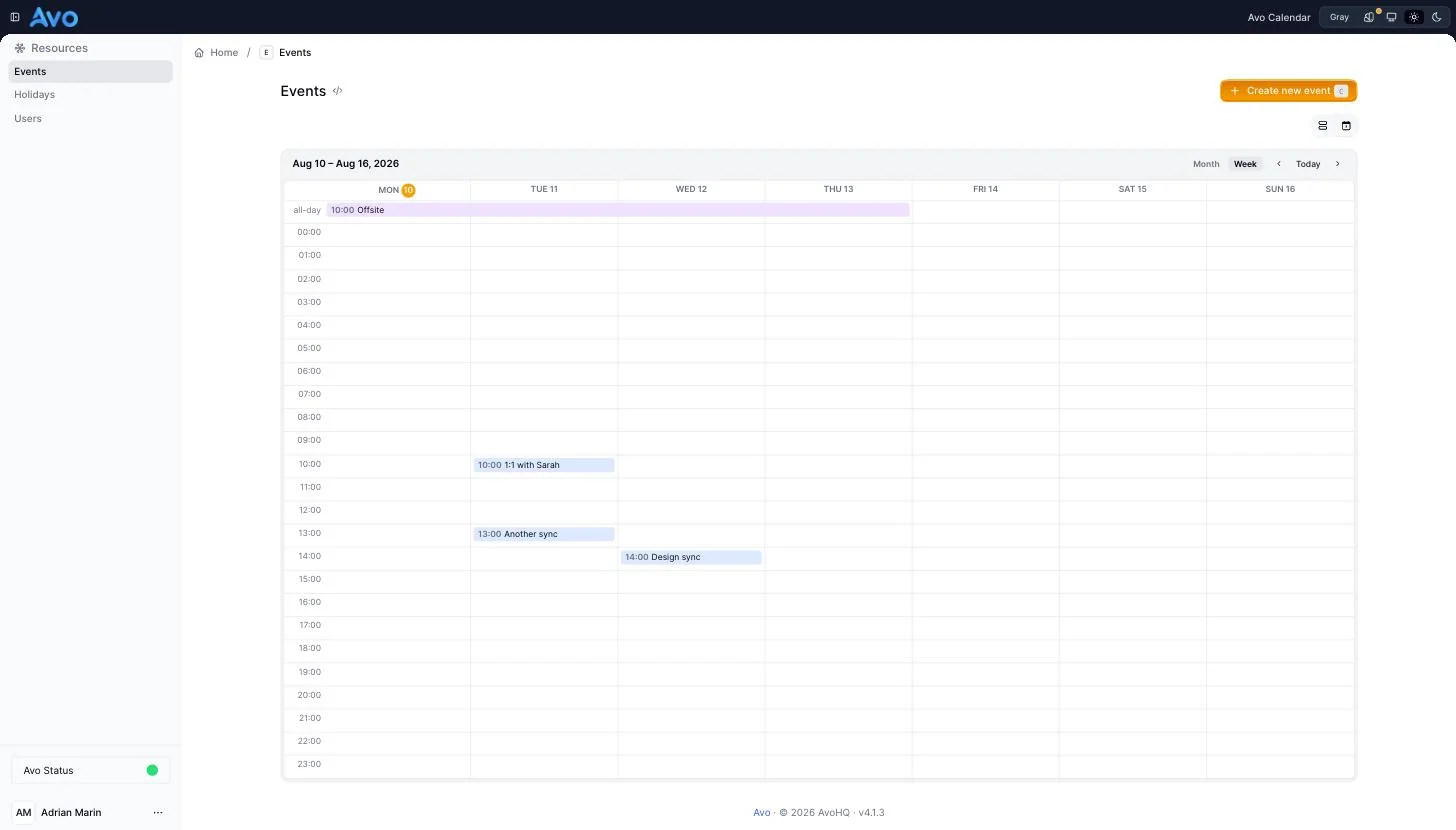
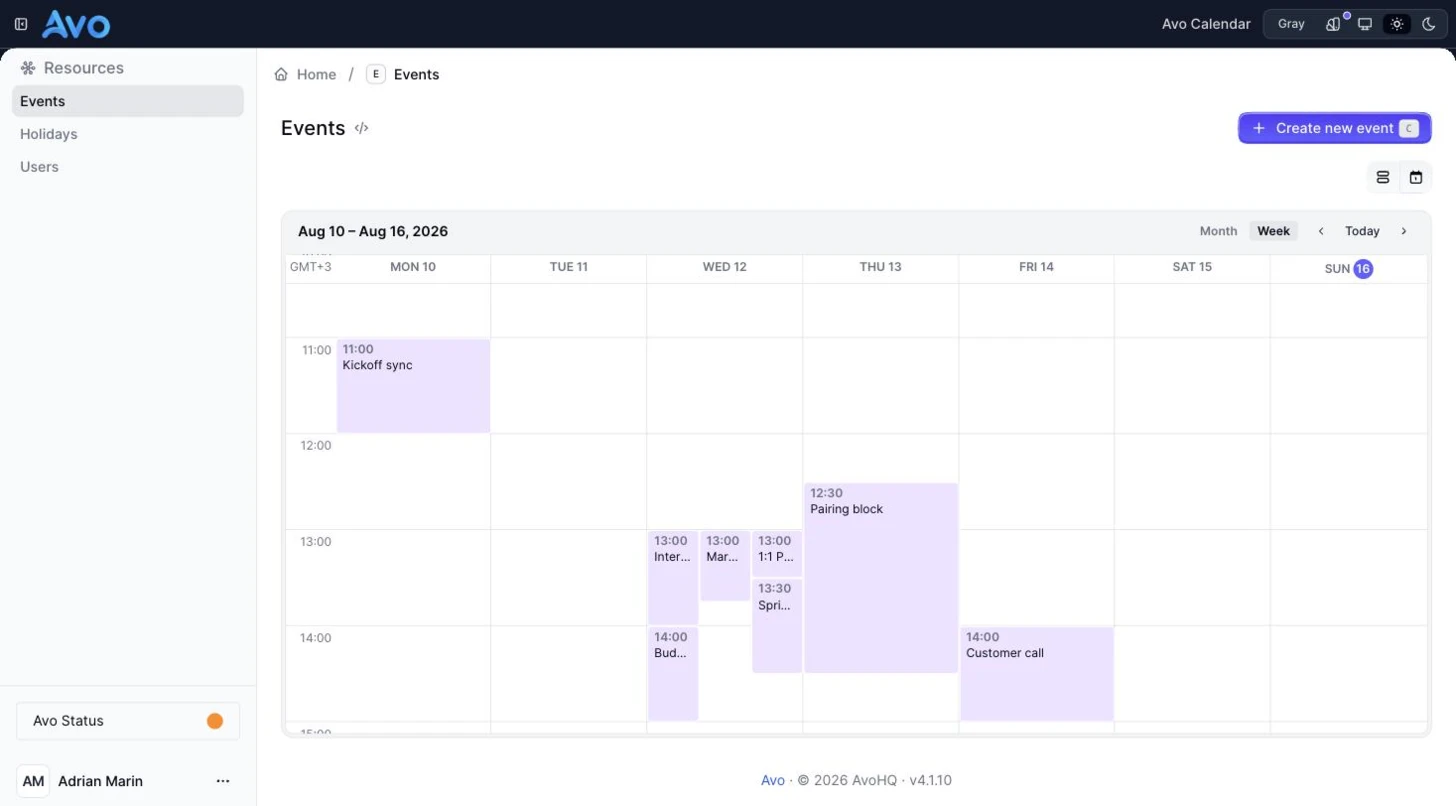
Document the calendar week view's scrollable time grid
Hour-based events now stretch to their duration and split overlaps side
by side on a grid that scrolls under a pinned day-header row, opening
at 07:00; chips get a tooltip when on_click skips the preview popover.
Refreshes the week screenshots (light + dark) and adds the unreleased
upgrade note alongside the +N more one.

diff --git a/docs/4.0/calendar-view.md b/docs/4.0/calendar-view.md
@@ -7,7 +7,7 @@ outline: [2, 3]
 
 # Calendar view
 
-Display a resource's records on a month or week calendar, right on the <Index /> view. Hour-based events show their start time, all-day events render as filled bars (and land in the week view's all-day lane), and multi-day events span every day they cover. Clicking an event opens a preview popover with the fields marked `show_on: :preview`.
+Display a resource's records on a month or week calendar, right on the <Index /> view. Hour-based events show their start time — and stretch to their duration in the week view — all-day events render as filled bars (and land in the week view's all-day lane), and multi-day events span every day they cover. Clicking an event opens a preview popover with the fields marked `show_on: :preview`.
 
 <Image src="/assets/img/4_0/calendar-view/month.webp" dark-src="/assets/img/4_0/calendar-view/month-dark.webp" width="1175" height="771" alt="The month calendar — timed event chips, a month-long all-day bar, a multi-day event spanning three days, and the Month/Week switcher." />
 
@@ -167,9 +167,9 @@ end
 
 ## Month and week views
 
-The header's Month/Week toggle switches between a month grid and a week view with an all-day lane plus hour rows (carried in the `calendar_period` query param). In the week view, all-day and multi-day events sit in the all-day lane; hour-based events land on their start hour.
+The header's Month/Week toggle switches between a month grid and a week time grid (carried in the `calendar_period` query param). In the week view, all-day and multi-day events sit in the all-day lane at the top, and hour-based events render as blocks stretched to their duration — an event without an end renders as one hour. Overlapping events share the day column side by side, each block showing its title under the start time. The grid scrolls under a pinned day-header row and opens at 07:00.
 
-<Image src="/assets/img/4_0/calendar-view/week.webp" dark-src="/assets/img/4_0/calendar-view/week-dark.webp" width="1456" height="830" alt="The week view — a multi-day event in the all-day lane and hour-based events on their start hours." />
+<Image src="/assets/img/4_0/calendar-view/week.webp" dark-src="/assets/img/4_0/calendar-view/week-dark.webp" width="1456" height="806" alt="The week view — event blocks stretched to their duration, three overlapping events sharing a day column side by side." />
 
 ### Read a crowded day
 
@@ -179,7 +179,7 @@ A month cell shows as many event lanes as fit its row and collapses the rest beh
 
 Clicking an event chip opens a popover with the record's preview — the fields marked `show_on: :preview` — and a link to the record. Cmd/Ctrl-click still opens the record directly.
 
-If you'd rather skip the popover, set `on_click: :show` or `on_click: :edit` to navigate straight to the record's <Show /> or <Edit /> page.
+If you'd rather skip the popover, set `on_click: :show` or `on_click: :edit` to navigate straight to the record's <Show /> or <Edit /> page. Without the popover, hovering a chip shows a tooltip with the full title, so truncated chips stay readable.
 
 ## Navigation and filtering
 

diff --git a/docs/4.0/upgrade.md b/docs/4.0/upgrade.md
@@ -34,13 +34,21 @@ end
 
 Migrating to TailwindCSS 4? See the [TailwindCSS 4 Migration Guide](./tailwind-4-migration).
 
-## Unreleased — `avo-calendar` "+N more" expands the row in place
+## Unreleased — `avo-calendar` month and week view changes
 
 <Option name="`+N more` no longer opens the week view">
 
 In the month view, the **+N more** toggle under a crowded day now expands that week row in place to reveal every event, with a **Show less** control to fit it back. It previously navigated to that day's week view. See [Read a crowded day](./calendar-view.html#read-a-crowded-day).
 
 **Action required:** None — the behavior change is visual only, and the week view stays one click away in the header's Month/Week toggle.
+
+</Option>
+
+<Option name="Week view becomes a scrollable time grid">
+
+Hour-based events now stretch to their duration — overlapping events share the day column side by side — instead of rendering as fixed chips on their start hour, and the grid scrolls inside the viewport, opening at 07:00 under a pinned day-header row. See [Month and week views](./calendar-view.html#month-and-week-views).
+
+**Action required:** None — the change is visual only. An event without an `ends_at` renders as a one-hour block.
 
 </Option>
 
